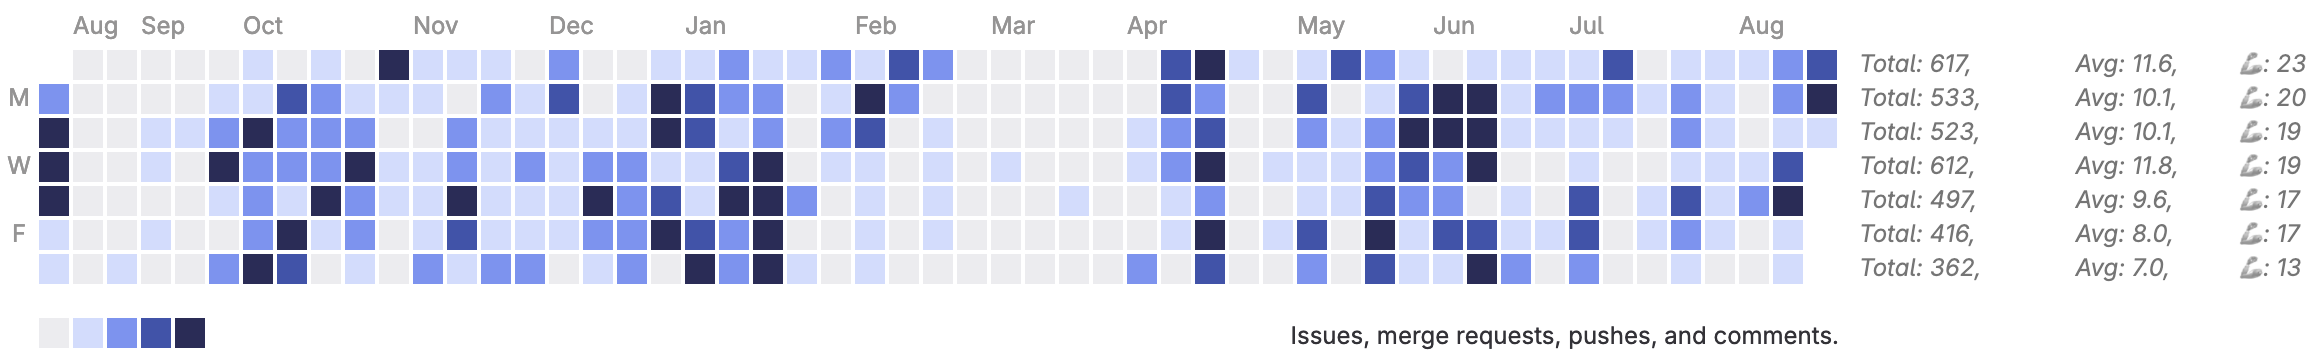
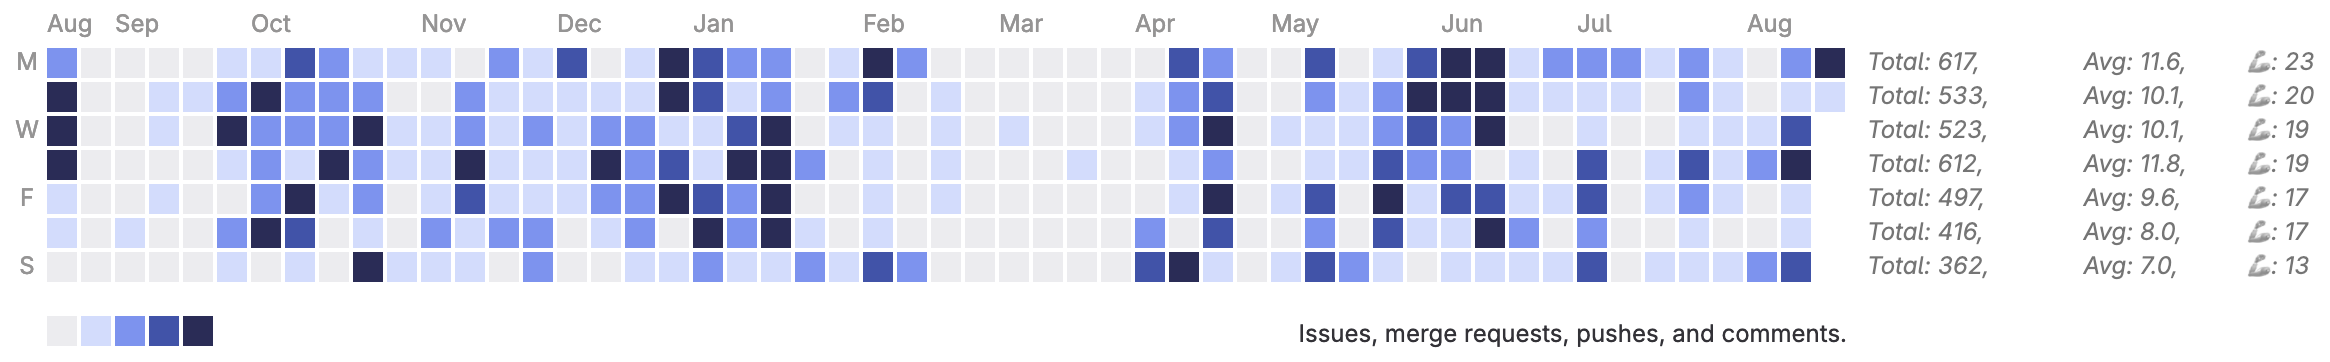
fix problem with differents days orders

diff --git a/contribution-summary.js b/contribution-summary.js
@@ -1,5 +1,5 @@
 function waitForElement(selector, callback) {
-  const observer = new MutationObserver(function(mutationsList) {
+  const observer = new MutationObserver(function (mutationsList) {
     for (const mutation of mutationsList) {
       if (mutation.addedNodes && mutation.addedNodes.length > 0) {
         const matchingElement = Array.from(mutation.addedNodes).find(node =>
@@ -17,11 +17,30 @@ function waitForElement(selector, callback) {
   observer.observe(document.body, { childList: true, subtree: true });
 };
 
+function determineDaysOrder() {
+  const firstG = document.querySelector('g');
+  const lastRect = firstG.querySelector('rect[title]:last-of-type');
+
+  let daysOrder = ['Sunday', 'Monday', 'Tuesday', 'Wednesday', 'Thursday', 'Friday', 'Saturday'];
+  if (lastRect) {
+    const match = lastRect.getAttribute('title').match(/.*(Sunday|Monday|Tuesday|Wednesday|Thursday|Friday|Saturday)/);
+    if (match) {
+      const lastDay = match[1];
+      const lastDayIndex = daysOrder.indexOf(lastDay) + 1;
+      if (lastDayIndex !== -1) {
+        daysOrder = daysOrder.slice(lastDayIndex).concat(daysOrder.slice(0, lastDayIndex));
+      }
+    }
+  }
+
+  return daysOrder;
+};
+
 function injectStatsToPage(statistics) {
   const jsContribCalendar = document.querySelector('div.js-contrib-calendar');
   if (jsContribCalendar) {
     jsContribCalendar.style.position = 'relative';
-    
+
     const statsDiv = document.createElement('div');
     statsDiv.style.position = 'absolute';
     statsDiv.style.top = '16px';
@@ -32,20 +51,17 @@ function injectStatsToPage(statistics) {
     statsDiv.style.fontSize = '12px';
     statsDiv.style.fontStyle = 'italic';
     statsDiv.style.lineHeight = '17px';
-    statsDiv.style.color = '#0000008a';
-    
-    const sortedDays = Object.keys(statistics).sort((a, b) => {
-      const daysOrder = ['Monday', 'Tuesday', 'Wednesday', 'Thursday', 'Friday', 'Saturday', 'Sunday'];
-      return daysOrder.indexOf(a) - daysOrder.indexOf(b);
-    });
-    
+    statsDiv.style.color = 'rgba(14, 31, 53, 0.54)';
+
+    const daysOrder = determineDaysOrder();
+
     let statsString = '';
-    sortedDays.forEach(day => {
+    daysOrder.forEach(day => {
       const stat = statistics[day];
       const avg = stat.count > 0 ? (stat.totalContributions / stat.count).toFixed(1) : 0;
       statsString += `Total: ${stat.totalContributions}, \t\tAvg: ${avg}, \t🦾: ${stat.totalLevelGreaterThan1}\n`;
     });
-    
+
     statsDiv.textContent = statsString;
     jsContribCalendar.appendChild(statsDiv);
   } else {
@@ -56,7 +72,7 @@ function injectStatsToPage(statistics) {
 function main() {
   const targetSelector = "svg.contrib-calendar";
 
-  waitForElement(targetSelector, function(element) {
+  waitForElement(targetSelector, function (element) {
     console.log("Element is now available: ", element);
 
     const svgParent = document.querySelector(targetSelector);

diff --git a/README.md b/README.md
@@ -6,3 +6,5 @@
 Firefox add-on that shows a user's contribution summary in their Gitlab profile
 
 Install it as a temporary extension in `about:debugging#/runtime/this-firefox` section and reload user's Gitlab profile tab if it's already open
+
+__Warning!__ Only works for the English localized Gitlab interface. But feel free to modify it to add i18n!
